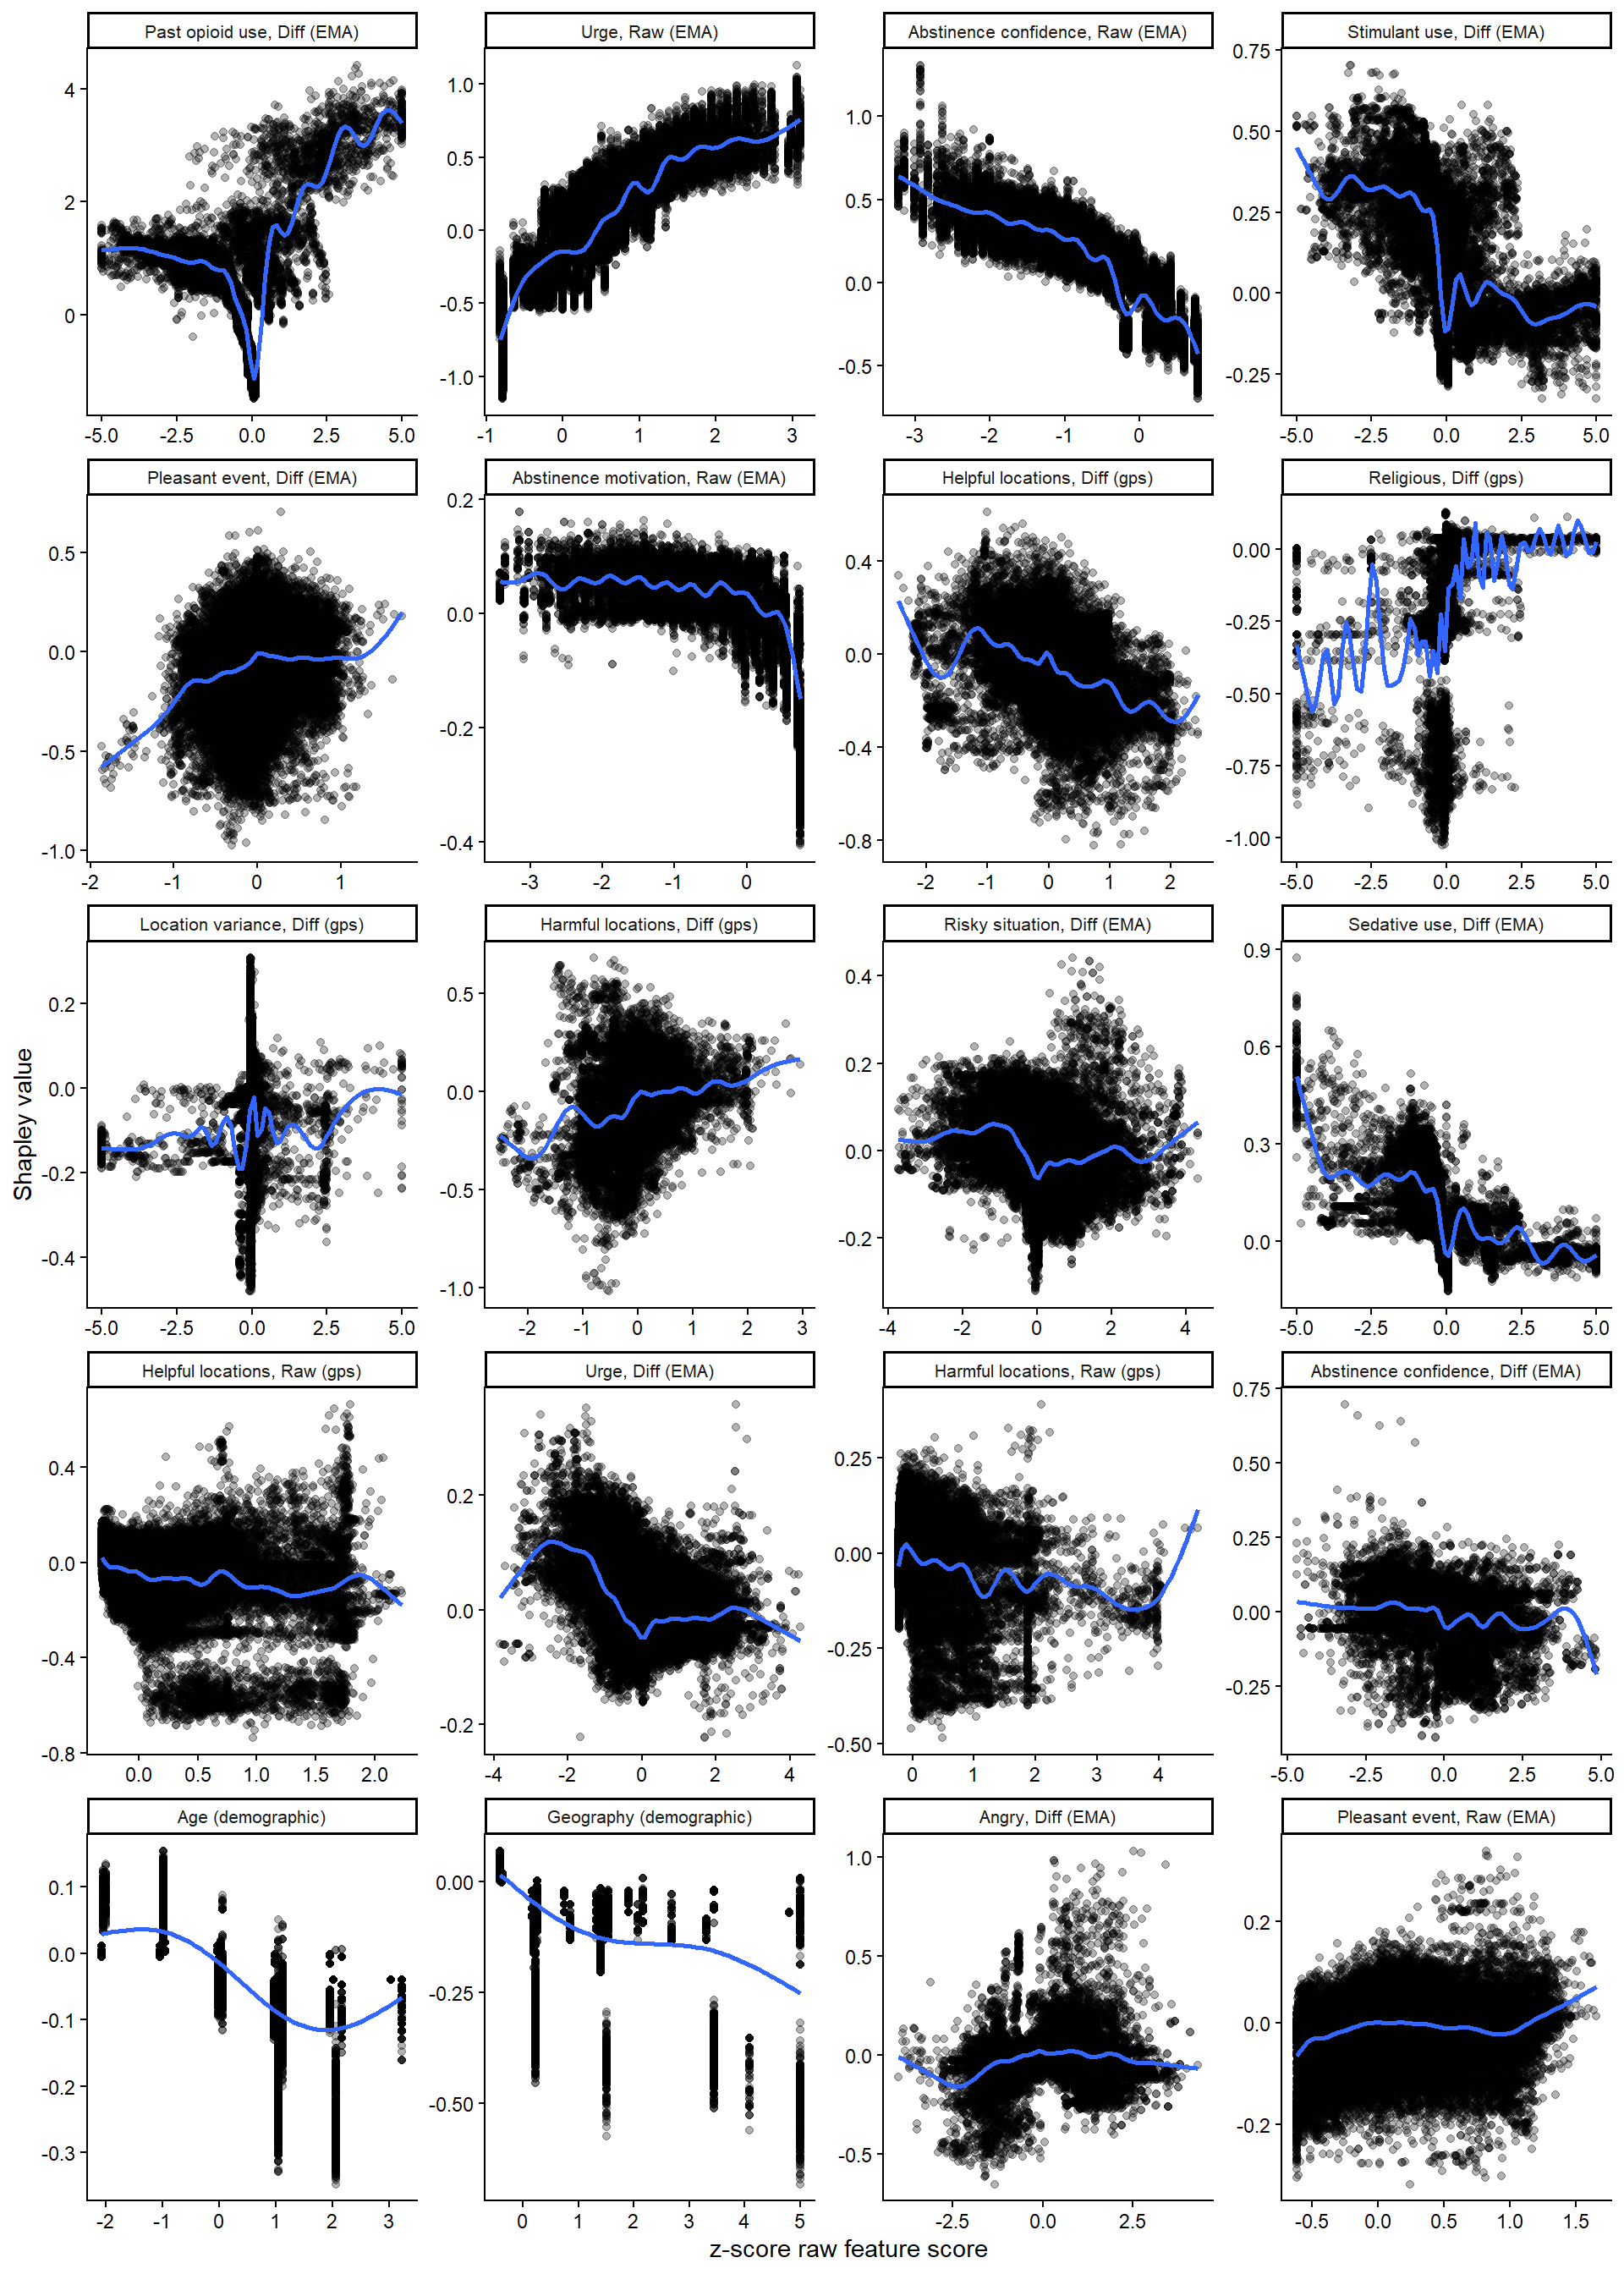
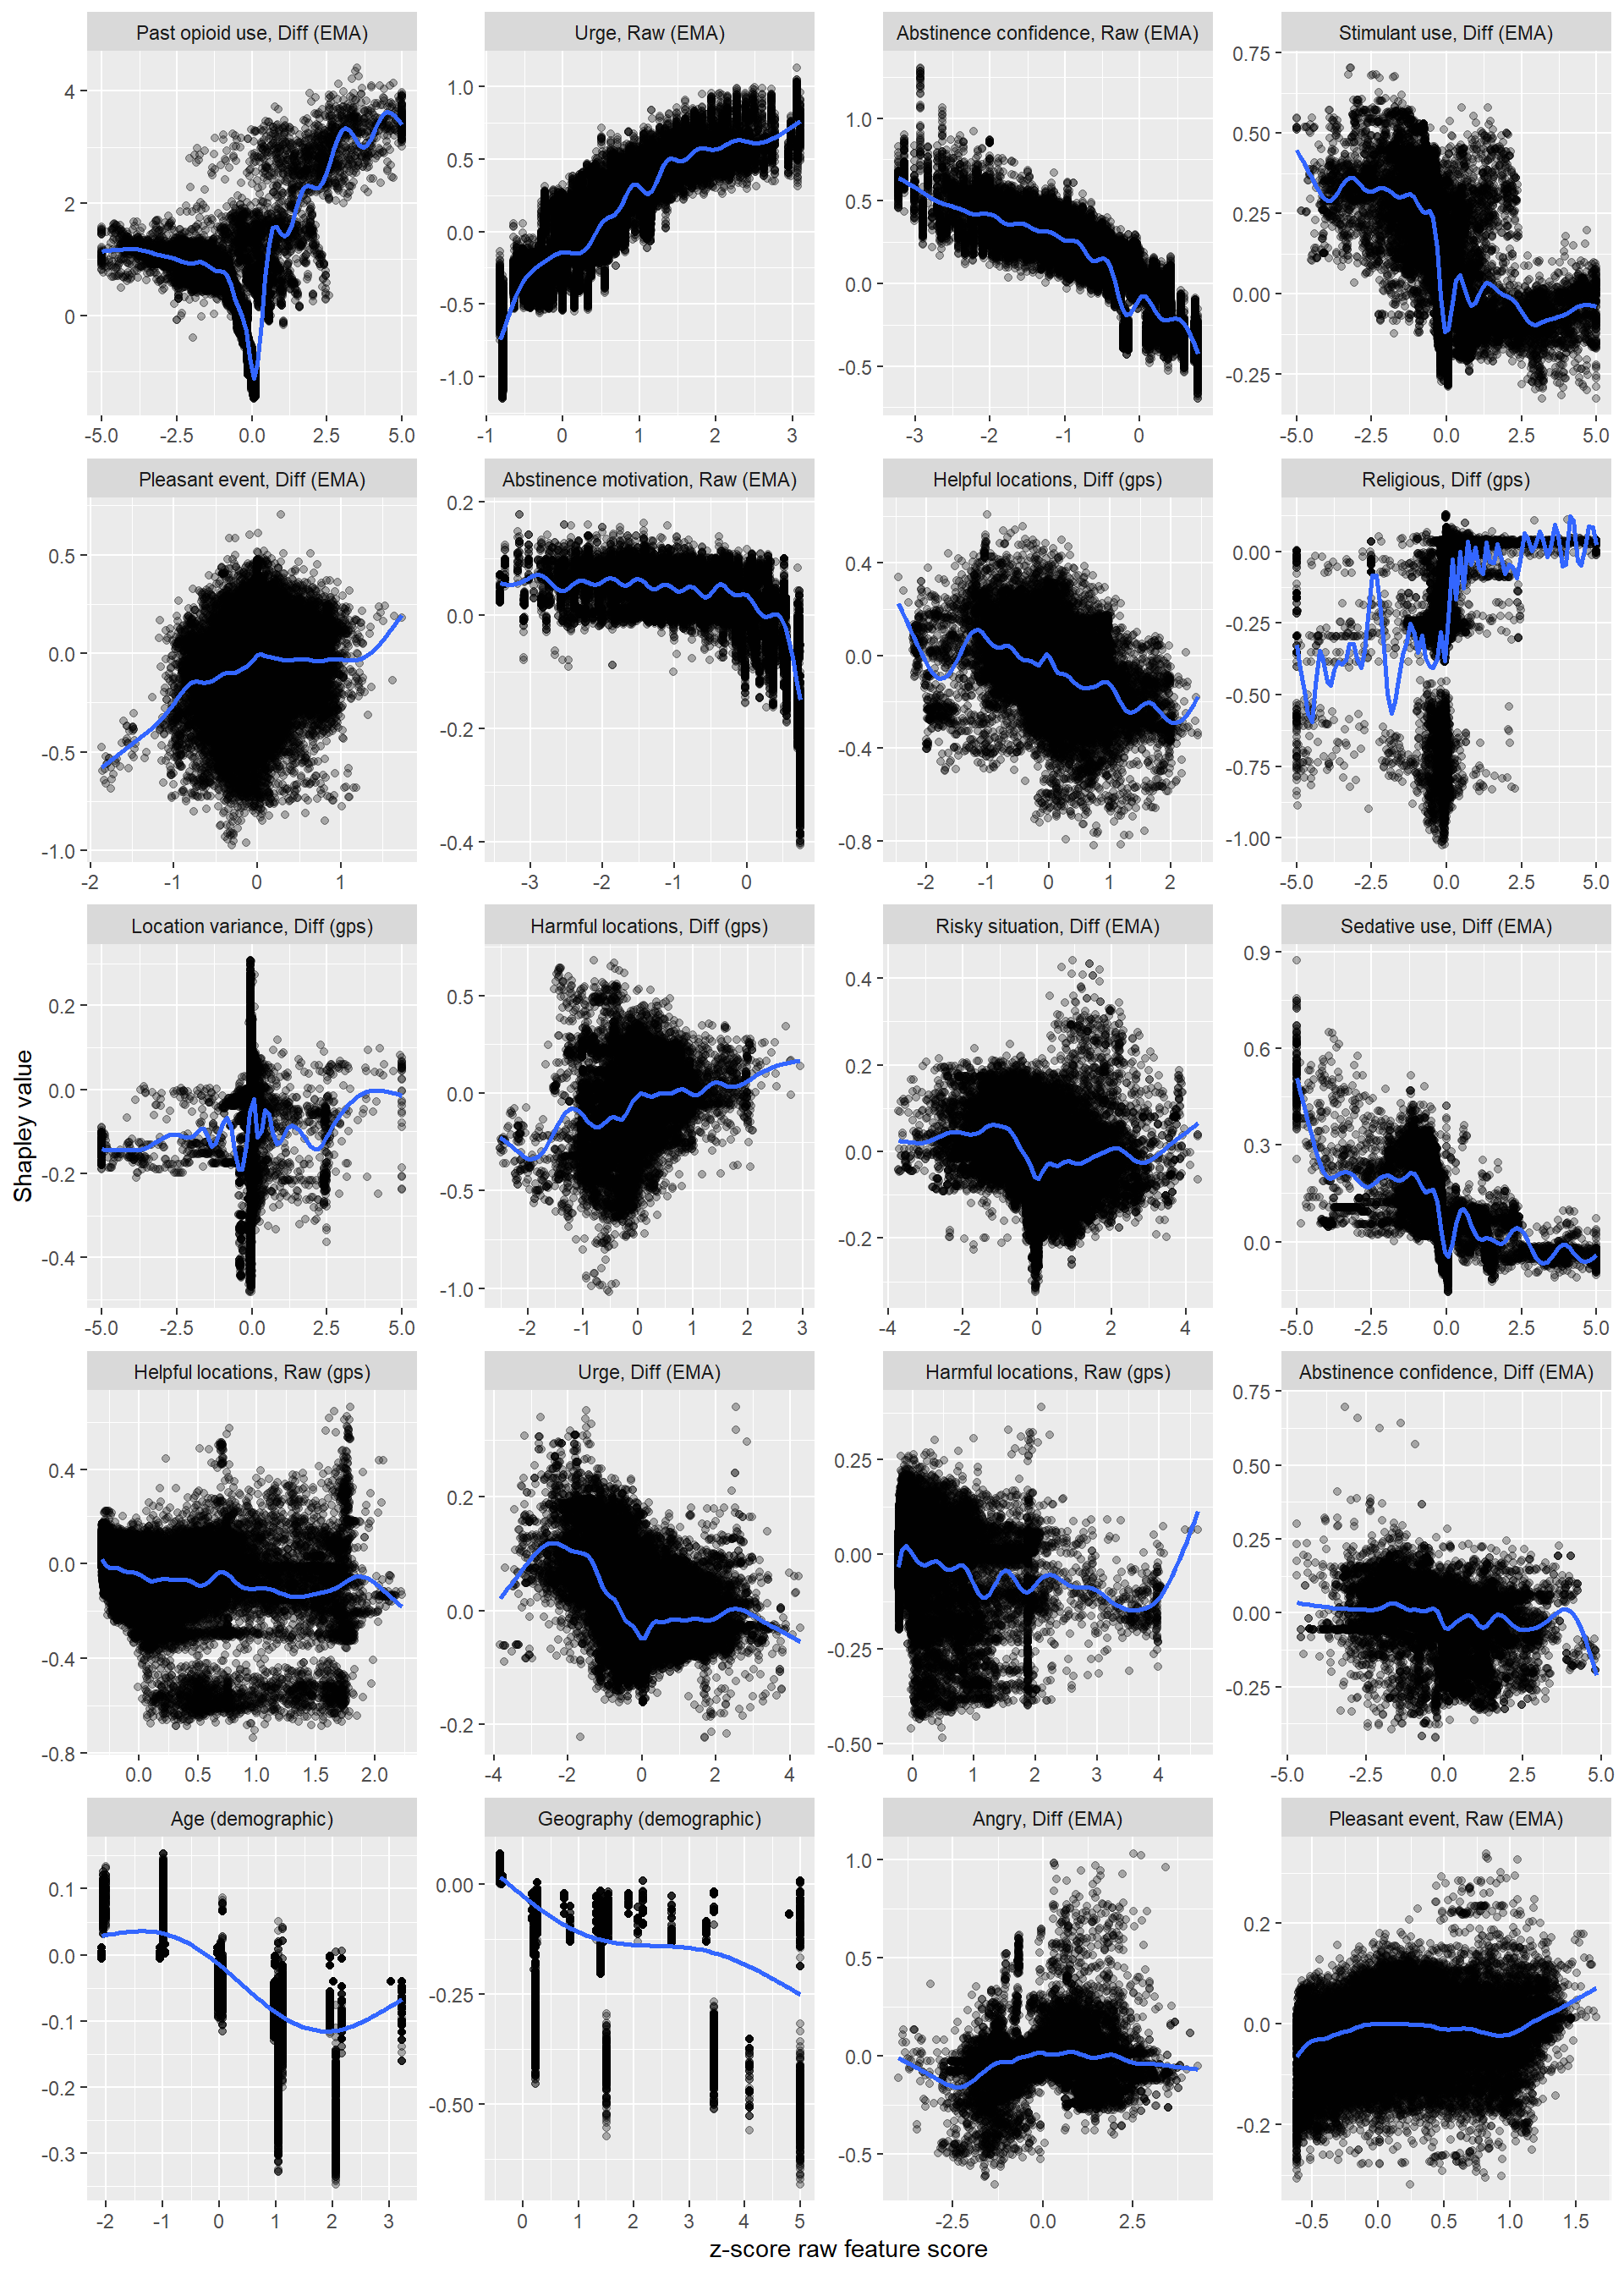
Built site for gh-pages

diff --git a/index-preview.html b/index-preview.html
@@ -1566,7 +1566,7 @@ Figure&nbsp;3
 <span id="cb10-25"><a href="#cb10-25" aria-hidden="true" tabindex="-1"></a>              se <span class="op">=</span> FALSE) <span class="op">+</span></span>
 <span id="cb10-26"><a href="#cb10-26" aria-hidden="true" tabindex="-1"></a>  geom_smooth(data <span class="op">=</span> <span class="op">~</span> dplyr::<span class="bu">filter</span>(.x, variable_grp <span class="op">%</span><span class="kw">in</span><span class="op">%</span> rel),</span>
 <span id="cb10-27"><a href="#cb10-27" aria-hidden="true" tabindex="-1"></a>              method <span class="op">=</span> <span class="st">"gam"</span>,</span>
-<span id="cb10-28"><a href="#cb10-28" aria-hidden="true" tabindex="-1"></a>              formula <span class="op">=</span> y <span class="op">~</span> s(x, k <span class="op">=</span> <span class="dv">40</span>),</span>
+<span id="cb10-28"><a href="#cb10-28" aria-hidden="true" tabindex="-1"></a>              formula <span class="op">=</span> y <span class="op">~</span> s(x, k <span class="op">=</span> <span class="dv">50</span>),</span>
 <span id="cb10-29"><a href="#cb10-29" aria-hidden="true" tabindex="-1"></a>              method.args <span class="op">=</span> <span class="bu">list</span>(method <span class="op">=</span> <span class="st">"REML"</span>),</span>
 <span id="cb10-30"><a href="#cb10-30" aria-hidden="true" tabindex="-1"></a>              se <span class="op">=</span> FALSE) <span class="op">+</span></span>
 <span id="cb10-31"><a href="#cb10-31" aria-hidden="true" tabindex="-1"></a>  facet_wrap(<span class="op">~</span> variable_grp, scales <span class="op">=</span> <span class="st">"free"</span>, ncol <span class="op">=</span> <span class="dv">4</span>) <span class="op">+</span></span>
@@ -1574,14 +1574,10 @@ Figure&nbsp;3
 <span id="cb10-33"><a href="#cb10-33" aria-hidden="true" tabindex="-1"></a>    title <span class="op">=</span> NULL,</span>
 <span id="cb10-34"><a href="#cb10-34" aria-hidden="true" tabindex="-1"></a>    x <span class="op">=</span> <span class="st">"z-score raw feature score"</span>,</span>
 <span id="cb10-35"><a href="#cb10-35" aria-hidden="true" tabindex="-1"></a>    y <span class="op">=</span> <span class="st">"Shapley value"</span></span>
-<span id="cb10-36"><a href="#cb10-36" aria-hidden="true" tabindex="-1"></a>  ) <span class="op">+</span></span>
-<span id="cb10-37"><a href="#cb10-37" aria-hidden="true" tabindex="-1"></a>  theme_classic() <span class="op">+</span></span>
-<span id="cb10-38"><a href="#cb10-38" aria-hidden="true" tabindex="-1"></a>  theme(</span>
-<span id="cb10-39"><a href="#cb10-39" aria-hidden="true" tabindex="-1"></a>    strip.text <span class="op">=</span> element_text(size <span class="op">=</span> <span class="dv">8</span>),</span>
-<span id="cb10-40"><a href="#cb10-40" aria-hidden="true" tabindex="-1"></a>    plot.title <span class="op">=</span> element_text(size <span class="op">=</span> <span class="dv">14</span>, face <span class="op">=</span> <span class="st">"bold"</span>)</span>
-<span id="cb10-41"><a href="#cb10-41" aria-hidden="true" tabindex="-1"></a>  )</span>
-<span id="cb10-42"><a href="#cb10-42" aria-hidden="true" tabindex="-1"></a></span>
-<span id="cb10-43"><a href="#cb10-43" aria-hidden="true" tabindex="-1"></a><span class="co"># knitr::include_graphics(path = here::here("figures/shapley_local.png"), error = FALSE)</span></span></code></pre></div><button title="Copy to Clipboard" class="code-copy-button"><i class="bi"></i></button></div>
+<span id="cb10-36"><a href="#cb10-36" aria-hidden="true" tabindex="-1"></a>  ) </span>
+<span id="cb10-37"><a href="#cb10-37" aria-hidden="true" tabindex="-1"></a> <span class="co"># theme_classic(base_size = 18) </span></span>
+<span id="cb10-38"><a href="#cb10-38" aria-hidden="true" tabindex="-1"></a></span>
+<span id="cb10-39"><a href="#cb10-39" aria-hidden="true" tabindex="-1"></a><span class="co"># knitr::include_graphics(path = here::here("figures/shapley_local.png"), error = FALSE)</span></span></code></pre></div><button title="Copy to Clipboard" class="code-copy-button"><i class="bi"></i></button></div>
 </details>
 <div class="cell-output cell-output-display">
 <div id="fig-4" class="quarto-float quarto-figure quarto-figure-center anchored">

diff --git a/notebooks/mak_figures-preview.html b/notebooks/mak_figures-preview.html
@@ -564,7 +564,7 @@ The top panel presents a calibration plot of raw and Platt calibrated risk proba
 <span id="cb11-26"><a href="#cb11-26" aria-hidden="true" tabindex="-1"></a>              <span class="at">se =</span> <span class="cn">FALSE</span>) <span class="sc">+</span></span>
 <span id="cb11-27"><a href="#cb11-27" aria-hidden="true" tabindex="-1"></a>  <span class="fu">geom_smooth</span>(<span class="at">data =</span> <span class="sc">~</span> dplyr<span class="sc">::</span><span class="fu">filter</span>(.x, variable_grp <span class="sc">%in%</span> rel),</span>
 <span id="cb11-28"><a href="#cb11-28" aria-hidden="true" tabindex="-1"></a>              <span class="at">method =</span> <span class="st">&quot;gam&quot;</span>,</span>
-<span id="cb11-29"><a href="#cb11-29" aria-hidden="true" tabindex="-1"></a>              <span class="at">formula =</span> y <span class="sc">~</span> <span class="fu">s</span>(x, <span class="at">k =</span> <span class="dv">40</span>),</span>
+<span id="cb11-29"><a href="#cb11-29" aria-hidden="true" tabindex="-1"></a>              <span class="at">formula =</span> y <span class="sc">~</span> <span class="fu">s</span>(x, <span class="at">k =</span> <span class="dv">50</span>),</span>
 <span id="cb11-30"><a href="#cb11-30" aria-hidden="true" tabindex="-1"></a>              <span class="at">method.args =</span> <span class="fu">list</span>(<span class="at">method =</span> <span class="st">&quot;REML&quot;</span>),</span>
 <span id="cb11-31"><a href="#cb11-31" aria-hidden="true" tabindex="-1"></a>              <span class="at">se =</span> <span class="cn">FALSE</span>) <span class="sc">+</span></span>
 <span id="cb11-32"><a href="#cb11-32" aria-hidden="true" tabindex="-1"></a>  <span class="fu">facet_wrap</span>(<span class="sc">~</span> variable_grp, <span class="at">scales =</span> <span class="st">&quot;free&quot;</span>, <span class="at">ncol =</span> <span class="dv">4</span>) <span class="sc">+</span></span>
@@ -572,14 +572,10 @@ The top panel presents a calibration plot of raw and Platt calibrated risk proba
 <span id="cb11-34"><a href="#cb11-34" aria-hidden="true" tabindex="-1"></a>    <span class="at">title =</span> <span class="cn">NULL</span>,</span>
 <span id="cb11-35"><a href="#cb11-35" aria-hidden="true" tabindex="-1"></a>    <span class="at">x =</span> <span class="st">&quot;z-score raw feature score&quot;</span>,</span>
 <span id="cb11-36"><a href="#cb11-36" aria-hidden="true" tabindex="-1"></a>    <span class="at">y =</span> <span class="st">&quot;Shapley value&quot;</span></span>
-<span id="cb11-37"><a href="#cb11-37" aria-hidden="true" tabindex="-1"></a>  ) <span class="sc">+</span></span>
-<span id="cb11-38"><a href="#cb11-38" aria-hidden="true" tabindex="-1"></a>  <span class="fu">theme_classic</span>() <span class="sc">+</span></span>
-<span id="cb11-39"><a href="#cb11-39" aria-hidden="true" tabindex="-1"></a>  <span class="fu">theme</span>(</span>
-<span id="cb11-40"><a href="#cb11-40" aria-hidden="true" tabindex="-1"></a>    <span class="at">strip.text =</span> <span class="fu">element_text</span>(<span class="at">size =</span> <span class="dv">8</span>),</span>
-<span id="cb11-41"><a href="#cb11-41" aria-hidden="true" tabindex="-1"></a>    <span class="at">plot.title =</span> <span class="fu">element_text</span>(<span class="at">size =</span> <span class="dv">14</span>, <span class="at">face =</span> <span class="st">&quot;bold&quot;</span>)</span>
-<span id="cb11-42"><a href="#cb11-42" aria-hidden="true" tabindex="-1"></a>  )</span>
-<span id="cb11-43"><a href="#cb11-43" aria-hidden="true" tabindex="-1"></a></span>
-<span id="cb11-44"><a href="#cb11-44" aria-hidden="true" tabindex="-1"></a><span class="co"># knitr::include_graphics(path = here::here(&quot;figures/shapley_local.png&quot;), error = FALSE)</span></span></code></pre></div><button title="Copy to Clipboard" class="code-copy-button"><i class="bi"></i></button></div>
+<span id="cb11-37"><a href="#cb11-37" aria-hidden="true" tabindex="-1"></a>  ) </span>
+<span id="cb11-38"><a href="#cb11-38" aria-hidden="true" tabindex="-1"></a> <span class="co"># theme_classic(base_size = 18) </span></span>
+<span id="cb11-39"><a href="#cb11-39" aria-hidden="true" tabindex="-1"></a></span>
+<span id="cb11-40"><a href="#cb11-40" aria-hidden="true" tabindex="-1"></a><span class="co"># knitr::include_graphics(path = here::here(&quot;figures/shapley_local.png&quot;), error = FALSE)</span></span></code></pre></div><button title="Copy to Clipboard" class="code-copy-button"><i class="bi"></i></button></div>
 </details>
 <div class="cell-output-display">
 <div id="fig-4" class="quarto-float quarto-figure quarto-figure-center anchored">